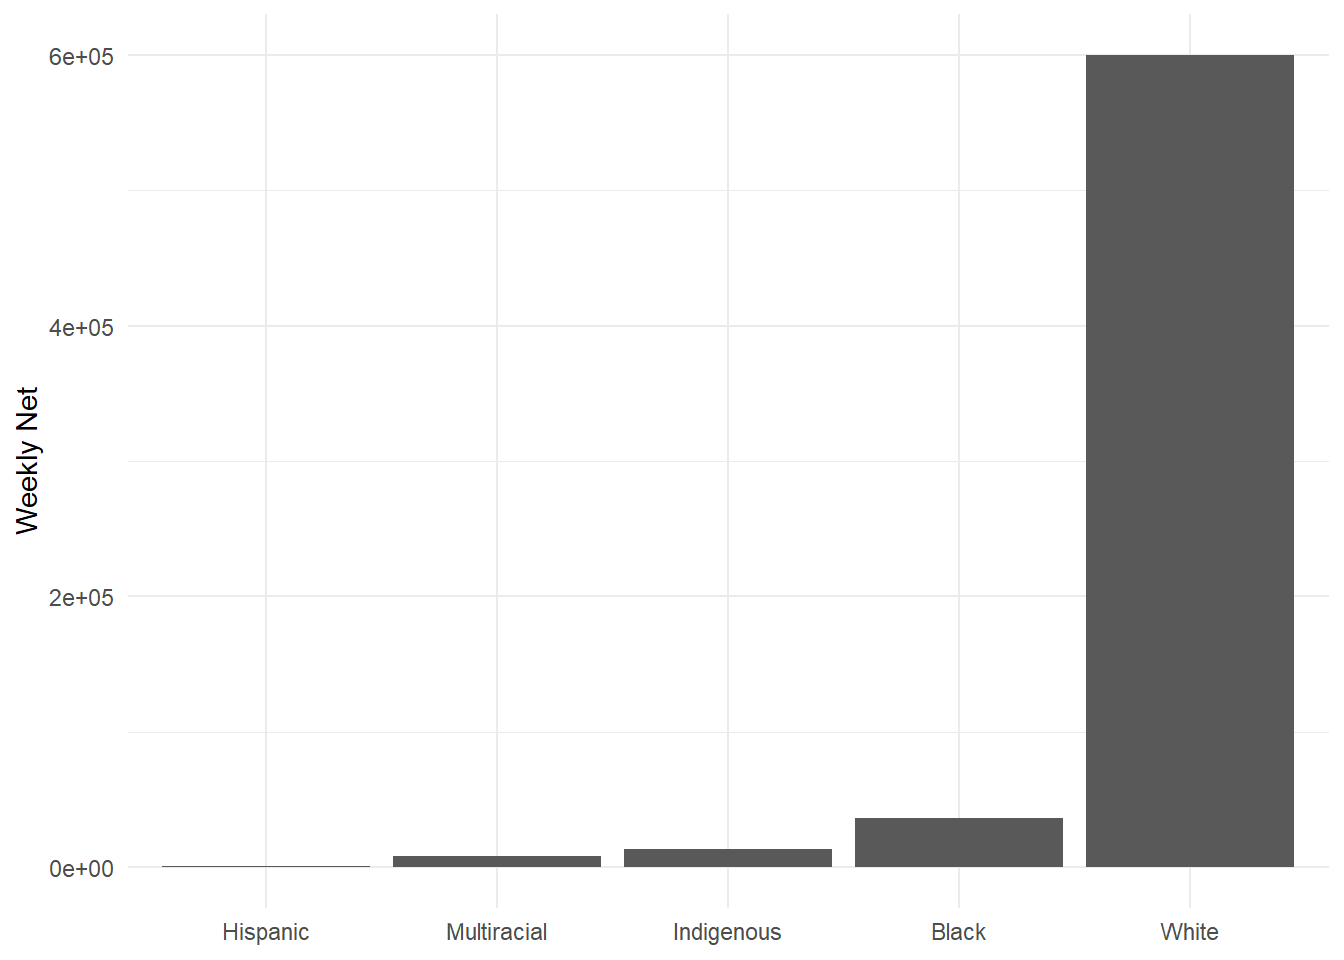
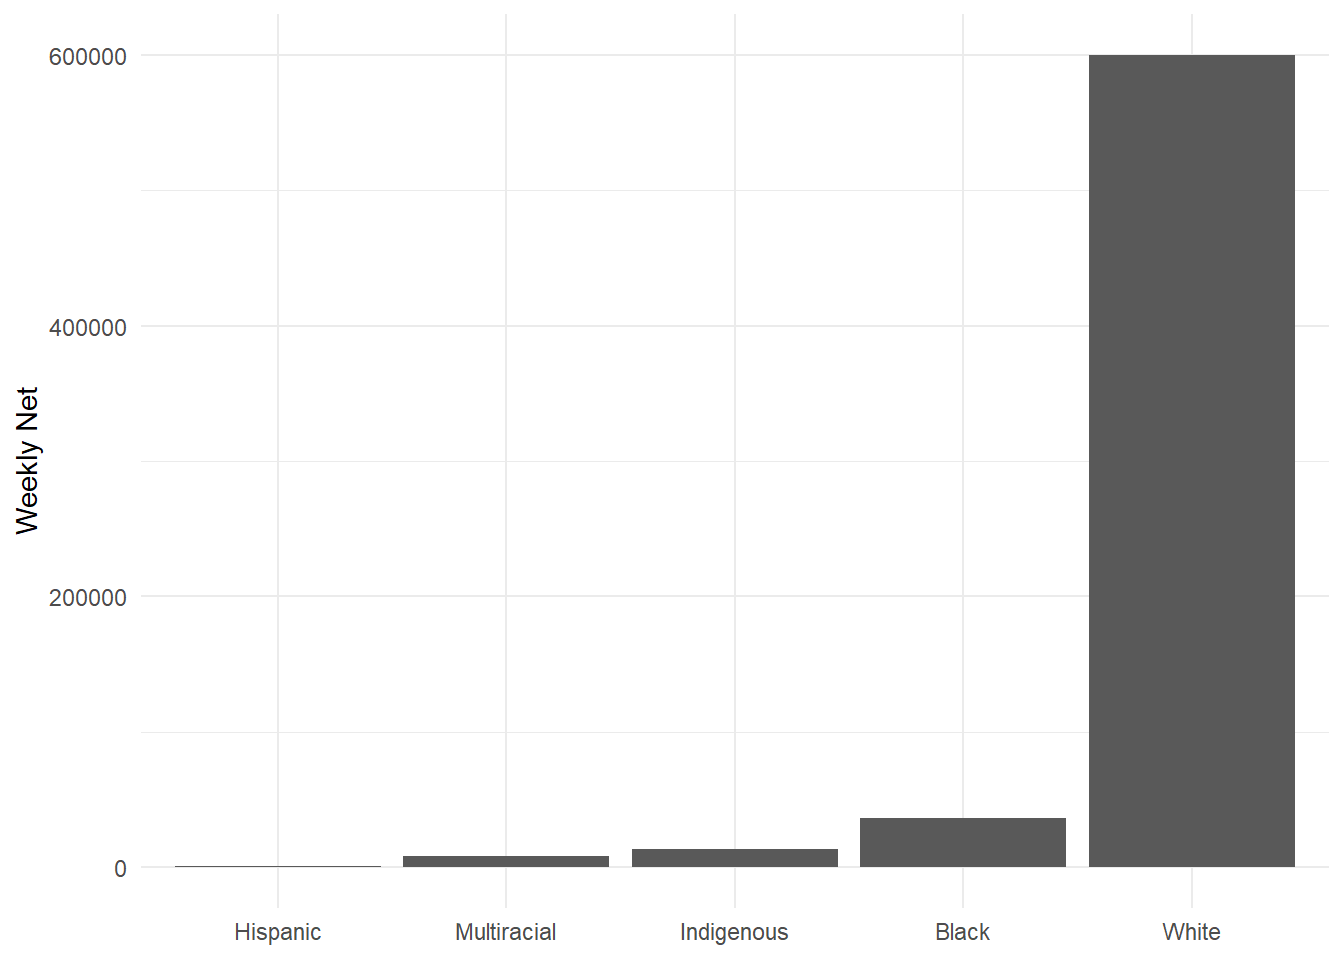
minor changes

diff --git a/ch-102-ggplot2.html b/ch-102-ggplot2.html
@@ -982,7 +982,7 @@ ggplot(data = hancock,
 <br></p>
 <div class="note">
 <p>FUN FACT</p>
-<p>Many ggplot2 color functions contain <code>brewer</code> in the name. That’s because, by default, ggplot2 uses color palettes based on the research of <a href="https://en.wikipedia.org/wiki/Cynthia_Brewer">Cynthia Brewer, Ph.D.</a>.</p>
+<p>Many ggplot2 color functions contain <code>brewer</code> in the name. That’s because, by default, ggplot2 uses color palettes based on the research of <a href="https://en.wikipedia.org/wiki/Cynthia_Brewer">Dr. Cynthia Brewer</a>.</p>
 <p>Dr. Brewer’s premade palettes, all recognized in ggplot2, are available in <a href="http://colorbrewer2.org/#type=sequential&amp;scheme=BuGn&amp;n=3">Color Brewer 2</a>.</p>
 </div>
 <p><br>
@@ -1068,7 +1068,9 @@ ggplot(data = hancock,
 <p><strong>Flipping Coordinates!</strong> No, we’re not cursing out <strong>coordinates</strong>.</p>
 <p>However, you can reverse the x- and y-axes by using function <code>coord_flip()</code>:</p>
 <p><img src="ch-102-ggplot2_files/figure-html/unnamed-chunk-37-1.png" width="672" /></p>
-<pre class="r"><code>ggplot(data = hancock, 
+<pre class="r"><code>options(scipen = 999)                 # Disable scientific notation
+
+ggplot(data = hancock, 
        aes(x = reorder(ethnicity, net), 
            y = net)) +
   geom_bar(stat = &quot;identity&quot;) +
